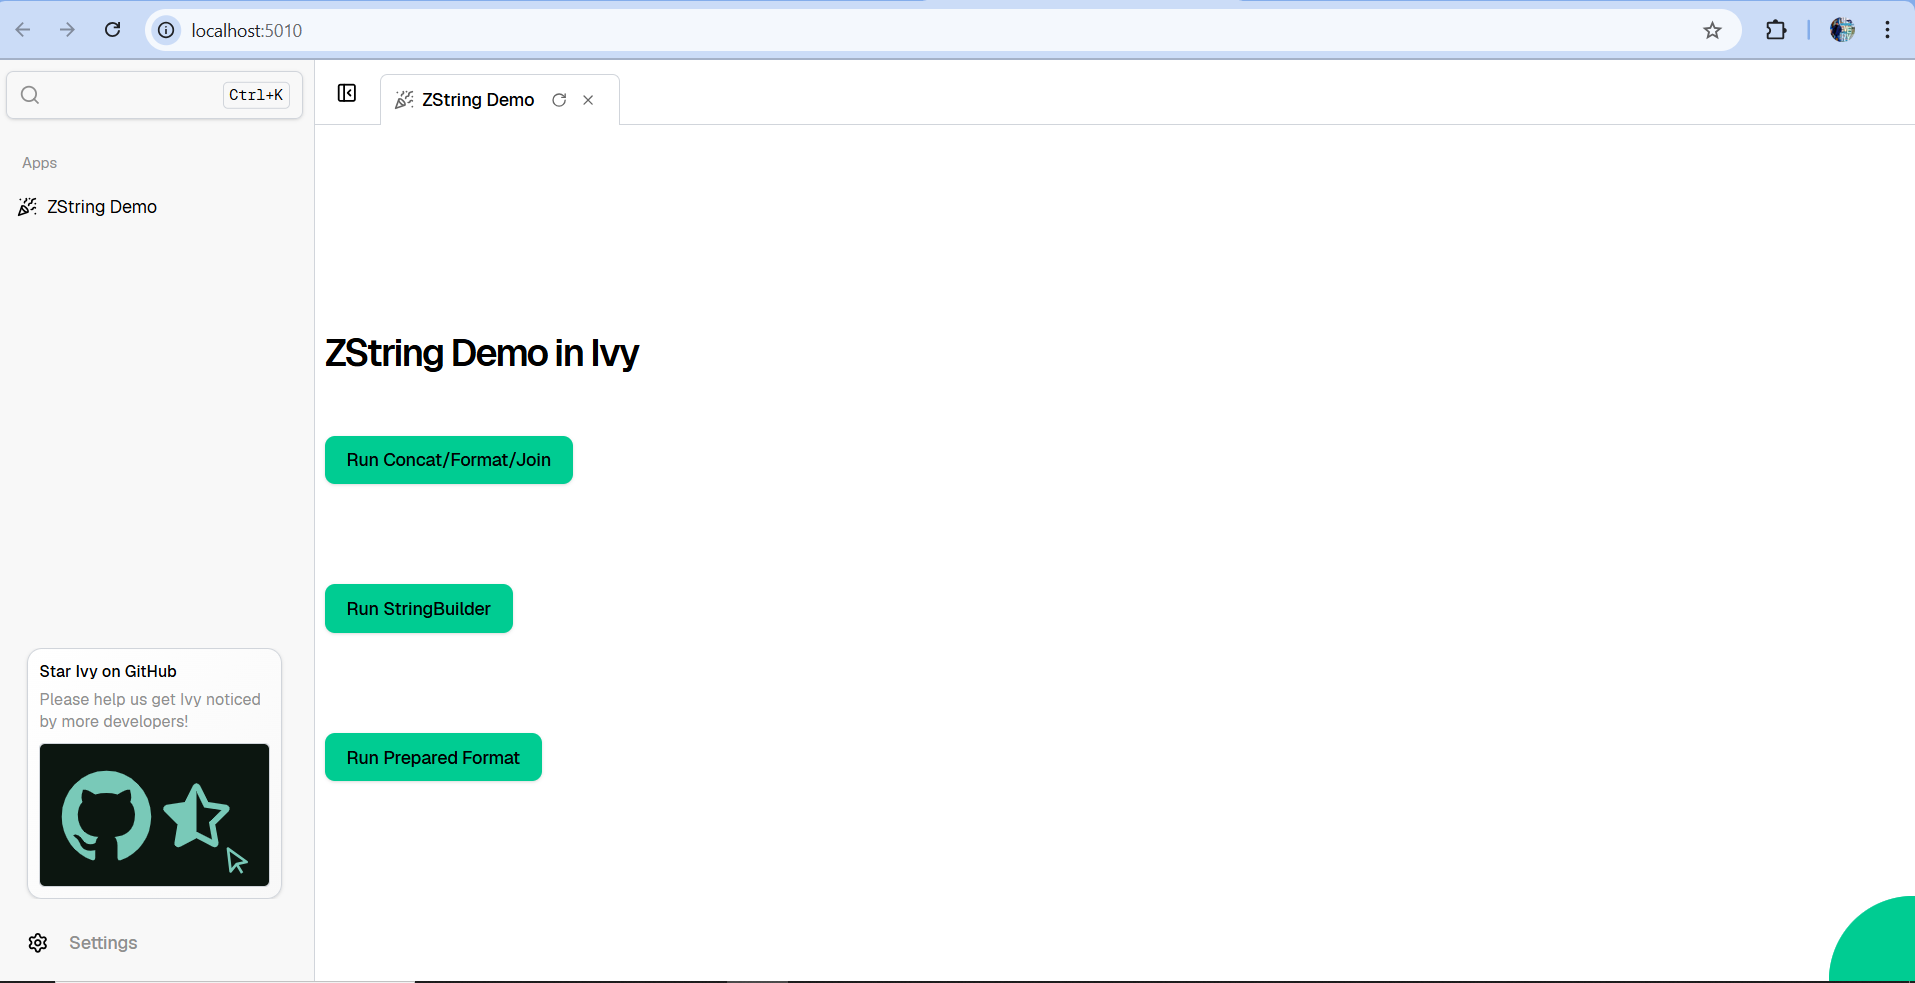
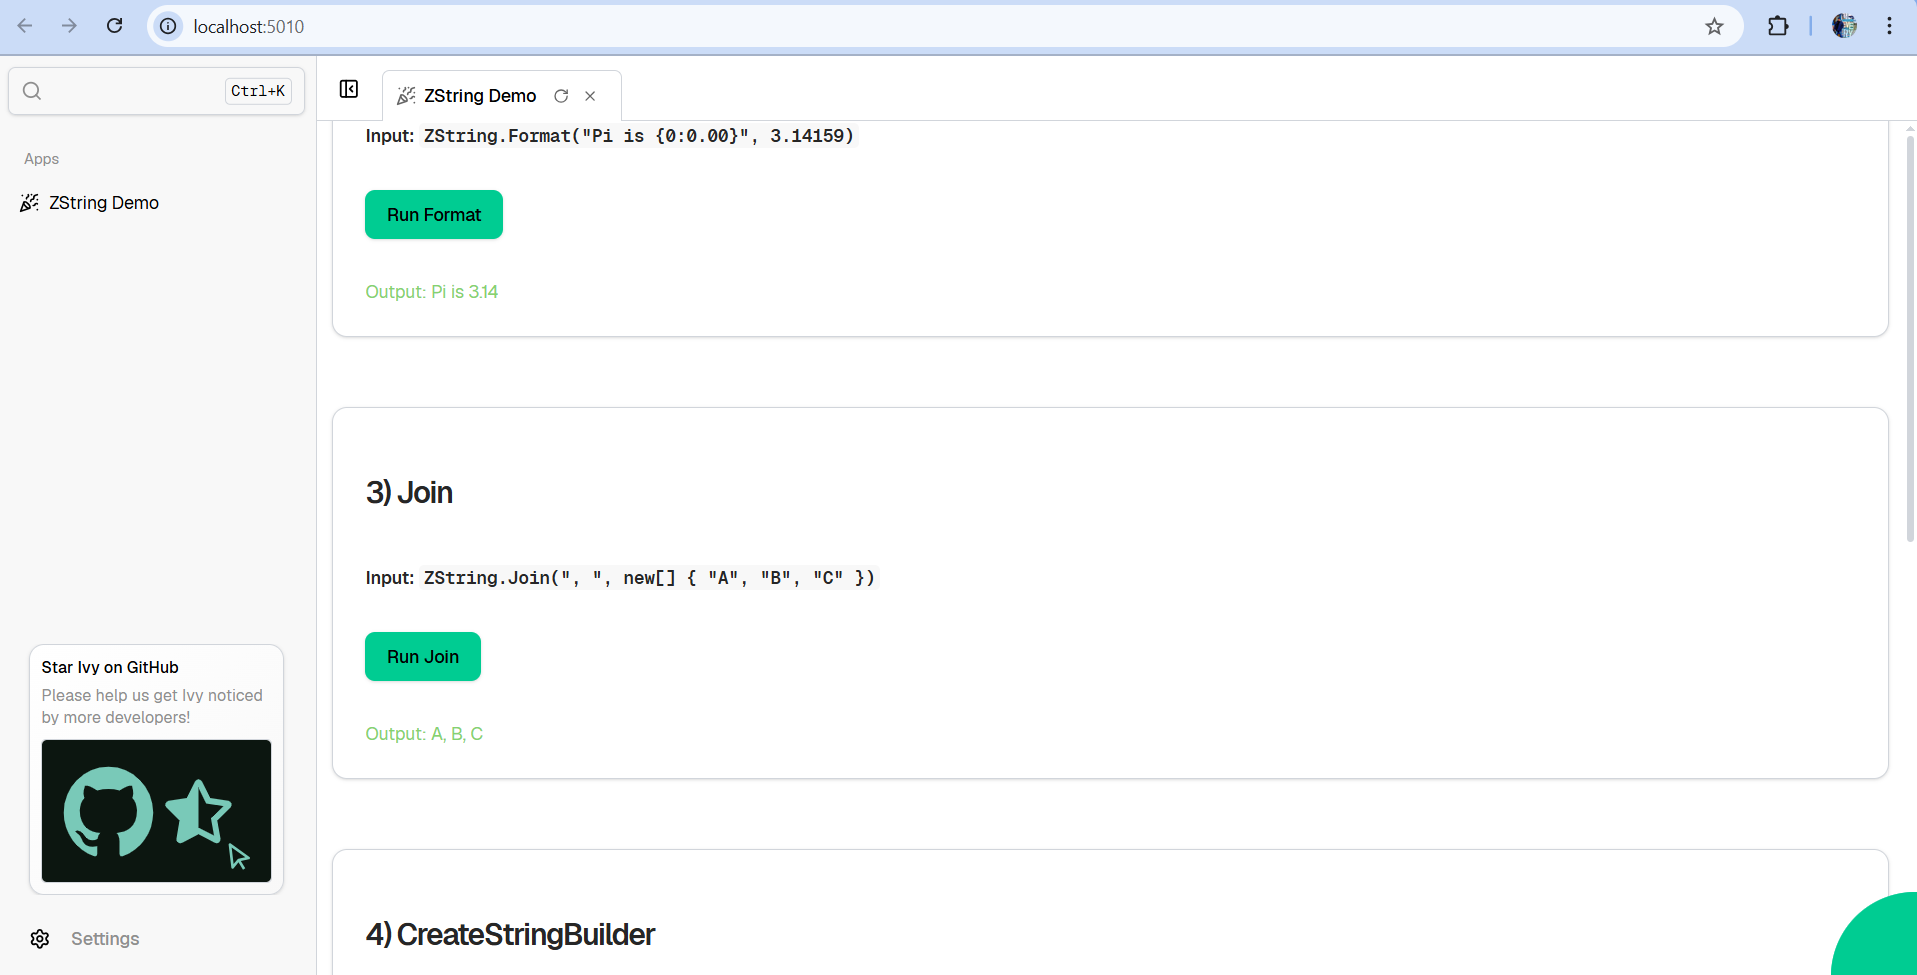
docs(demo): show explicit inputs and outputs in UI + updated README & screenshot

diff --git a/zstring/Apps/HelloApp.cs b/zstring/Apps/HelloApp.cs
@@ -1,5 +1,5 @@
 using Ivy;
-using Ivy.Shared;     // for Colors.*
+using Ivy.Shared;      // for Colors.*
 using Cysharp.Text;
 
 namespace IvyExamples.ZStringDemo.Apps;
@@ -7,46 +7,96 @@ namespace IvyExamples.ZStringDemo.Apps;
 [App(icon: Icons.PartyPopper, title: "ZString Demo")]
 public class HelloApp : ViewBase
 {
-    public override object Build()   
+    public override object Build()
     {
+        // States for visible outputs
         var concatState   = this.UseState<string>();
+        var formatState   = this.UseState<string>();
+        var joinState     = this.UseState<string>();
         var builderState  = this.UseState<string>();
         var preparedState = this.UseState<string>();
 
         return
             Layout.Center()
             | (
-                Layout.Vertical().Gap(10).Padding(2)
+                Layout.Vertical().Gap(14).Padding(3)
+
                 | Text.H2("ZString Demo in Ivy")
+                | Text.Block("Each section shows the **input** and the computed **output** so it’s clear what ZString does.")
 
-                // Concat/Format/Join
-                | new Button("Run Concat/Format/Join", () =>
-                {
-                    var s = ZString.Concat("Hello ", "Ivy ", 2025);
-                    s += " | " + ZString.Format("Pi is {0:0.00}", 3.14159);
-                    s += " | " + ZString.Join(", ", new[] { "A", "B", "C" });
-                    concatState.Value = s;
-                })
-                | Text.Block(concatState.Value ?? string.Empty).Color(Colors.Green)
+                // ── Concat ───────────────────────────────────────────────────────────
+                | new Card(
+                    Layout.Vertical().Gap(8)
+                    | Text.H3("1) Concat")
+                    | Text.Markdown("**Input:** `\"Hello\" + \" \" + \"Ivy\" + \" \" + 2025`")
+                    | new Button("Run Concat", () =>
+                    {
+                        var output = ZString.Concat("Hello", " ", "Ivy", " ", 2025);
+                        concatState.Value = output;
+                    })
+                    | Text.Block($"Output: {concatState.Value ?? string.Empty}").Color(Colors.Green)
+                  )
 
-                // StringBuilder
-                | new Button("Run StringBuilder", () =>
-                {
-                    using var sb = ZString.CreateStringBuilder();
-                    sb.Append("foo");
-                    sb.AppendLine(42);
-                    sb.AppendFormat("{0} {1:.###}", "bar", 123.456789);
-                    builderState.Value = sb.ToString();
-                })
-                | Text.Block(builderState.Value ?? string.Empty).Color(Colors.Purple)
+                // ── Format ──────────────────────────────────────────────────────────
+                | new Card(
+                    Layout.Vertical().Gap(8)
+                    | Text.H3("2) Format")
+                    | Text.Markdown("**Input:** `ZString.Format(\"Pi is {0:0.00}\", 3.14159)`")
+                    | new Button("Run Format", () =>
+                    {
+                        var output = ZString.Format("Pi is {0:0.00}", 3.14159);
+                        formatState.Value = output;
+                    })
+                    | Text.Block($"Output: {formatState.Value ?? string.Empty}").Color(Colors.Green)
+                  )
 
-                // Prepared Format
-                | new Button("Run Prepared Format", () =>
-                {
-                    var prepared = ZString.PrepareUtf16<int, int>("x:{0}, y:{1:000}");
-                    preparedState.Value = prepared.Format(10, 20);
-                })
-                | Text.Block(preparedState.Value ?? string.Empty).Color(Colors.Blue)
-              );
+                // ── Join ────────────────────────────────────────────────────────────
+                | new Card(
+                    Layout.Vertical().Gap(8)
+                    | Text.H3("3) Join")
+                    | Text.Markdown("**Input:** `ZString.Join(\", \", new[] { \"A\", \"B\", \"C\" })`")
+                    | new Button("Run Join", () =>
+                    {
+                        var output = ZString.Join(", ", new[] { "A", "B", "C" });
+                        joinState.Value = output;
+                    })
+                    | Text.Block($"Output: {joinState.Value ?? string.Empty}").Color(Colors.Green)
+                  )
+
+                // ── StringBuilder ───────────────────────────────────────────────────
+                | new Card(
+                    Layout.Vertical().Gap(8)
+                    | Text.H3("4) CreateStringBuilder")
+                    | Text.Markdown("**Input:**" +
+                                    "\n```csharp\nusing var sb = ZString.CreateStringBuilder();\n" +
+                                    "sb.Append(\"foo\");\n" +
+                                    "sb.AppendLine(42);\n" +
+                                    "sb.AppendFormat(\"{0} {1:.###}\", \"bar\", 123.456789);\n" +
+                                    "var output = sb.ToString();\n```")
+                    | new Button("Run StringBuilder", () =>
+                    {
+                        using var sb = ZString.CreateStringBuilder();
+                        sb.Append("foo");
+                        sb.AppendLine(42);
+                        sb.AppendFormat("{0} {1:.###}", "bar", 123.456789);
+                        builderState.Value = sb.ToString();
+                    })
+                    | Text.Block($"Output:\n{builderState.Value ?? string.Empty}")
+                        .Color(Colors.Purple)
+                  )
+
+                // ── Prepared Format ─────────────────────────────────────────────────
+                | new Card(
+                    Layout.Vertical().Gap(8)
+                    | Text.H3("5) Prepared Format")
+                    | Text.Markdown("**Input:** `var tpl = ZString.PrepareUtf16<int,int>(\"x:{0}, y:{1:000}\"); tpl.Format(10, 20)`")
+                    | new Button("Run Prepared Format", () =>
+                    {
+                        var tpl = ZString.PrepareUtf16<int, int>("x:{0}, y:{1:000}");
+                        preparedState.Value = tpl.Format(10, 20);
+                    })
+                    | Text.Block($"Output: {preparedState.Value ?? string.Empty}").Color(Colors.Blue)
+                  )
+            );
     }
 }
